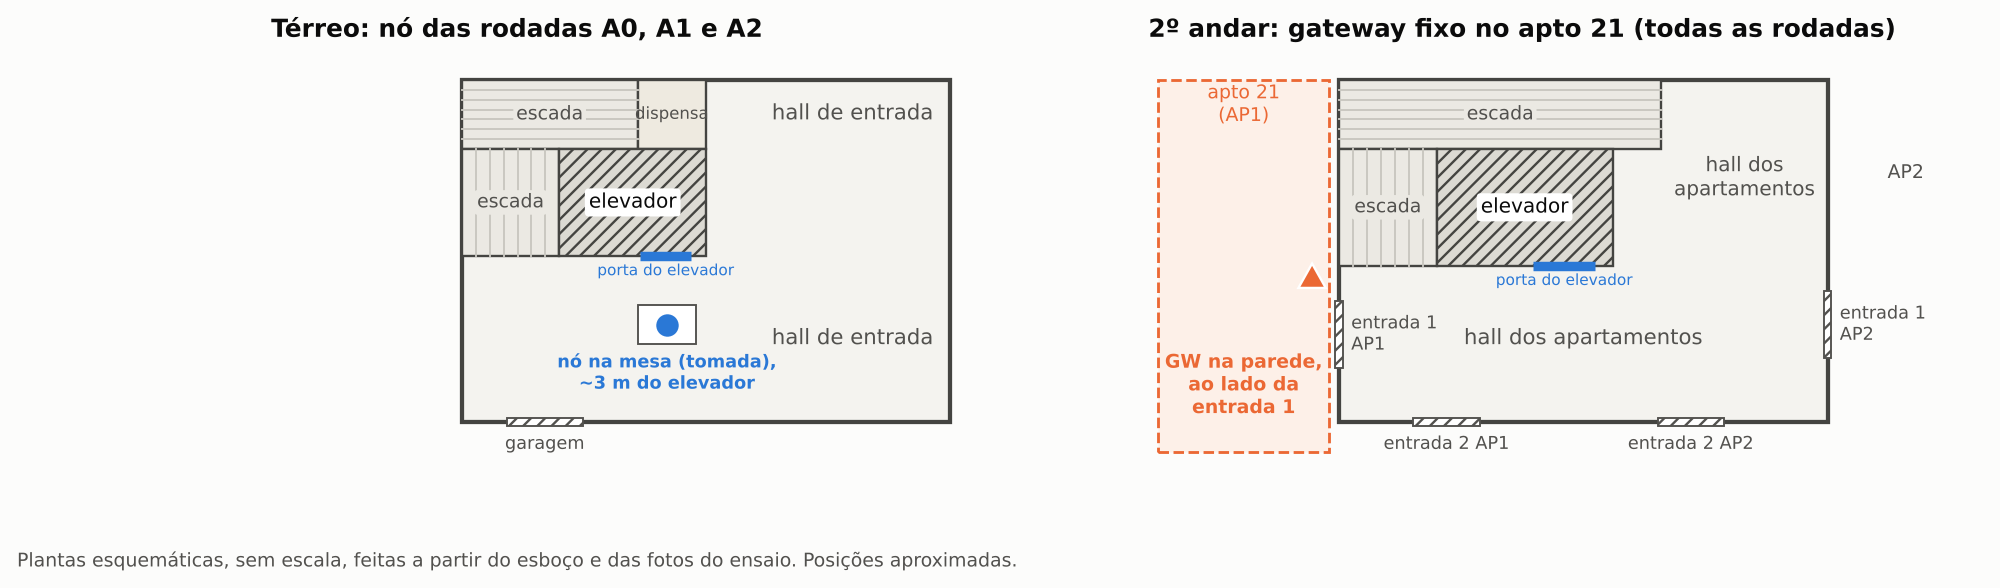
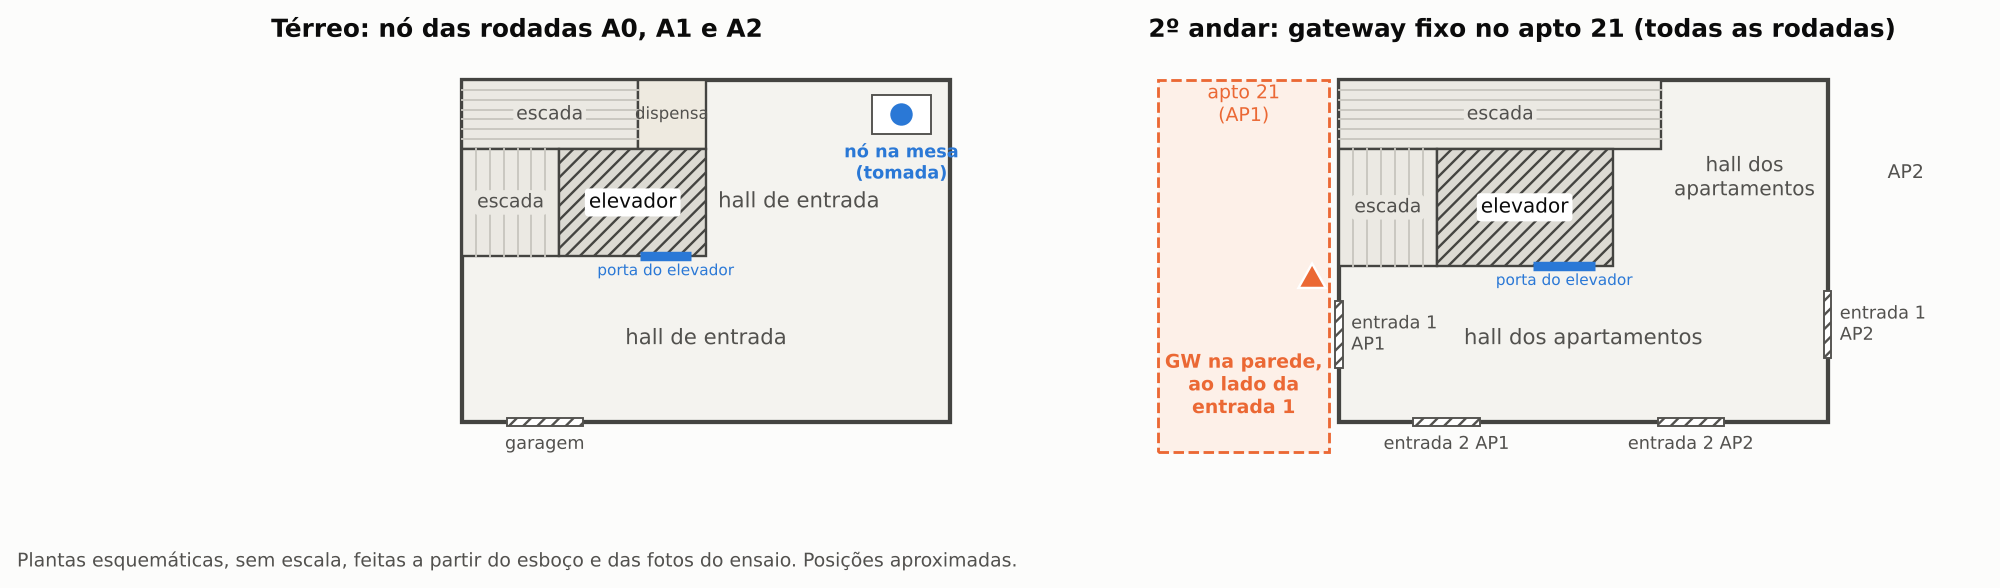
Planta do térreo: mesa do nó no canto do hall de entrada

Changed region(s): [[0.279, 0.5204, 0.465, 0.6735], [0.372, 0.1531, 0.496, 0.3061], [0.341, 0.3061, 0.434, 0.3673]]

diff --git a/analise/ilustracoes.py b/analise/ilustracoes.py
@@ -124,12 +124,12 @@ def plantas():
     a1.text(4.3, 6.3, "dispensa", ha="center", va="center", fontsize=7, color=TXT2)
     escada(a1, 0, 3.4, 2.0, 2.2, vertical=True)
     elevador(a1, 2.0, 3.4, 3.0, 2.2, porta_em="baixo")
-    a1.text(8.0, 6.2, "hall de entrada", ha="center", fontsize=9, color=TXT2)
-    a1.text(8.0, 1.6, "hall de entrada", ha="center", fontsize=9, color=TXT2)
+    a1.text(6.9, 4.4, "hall de entrada", ha="center", fontsize=9, color=TXT2)
+    a1.text(5.0, 1.6, "hall de entrada", ha="center", fontsize=9, color=TXT2)
     porta(a1, 1.0, 0, 2.4, 0, "garagem", ty=-.45)
-    a1.add_patch(Rectangle((3.6, 1.6), 1.2, .8, fc="white", ec=TXT2, lw=.8))
-    a1.plot(4.2, 2.0, "o", ms=11, color=AZUL, mec="white", mew=1.5, zorder=5)
-    a1.text(4.2, 1.45, "nó na mesa (tomada),\n~3 m do elevador", ha="center", va="top",
+    a1.add_patch(Rectangle((8.4, 5.9), 1.2, .8, fc="white", ec=TXT2, lw=.8))
+    a1.plot(9.0, 6.3, "o", ms=11, color=AZUL, mec="white", mew=1.5, zorder=5)
+    a1.text(9.0, 5.75, "nó na mesa\n(tomada)", ha="center", va="top",
             fontsize=7.5, color=AZUL, fontweight="bold")
 
     # ---- Andar tipo (2º) -------------------------------------------------
